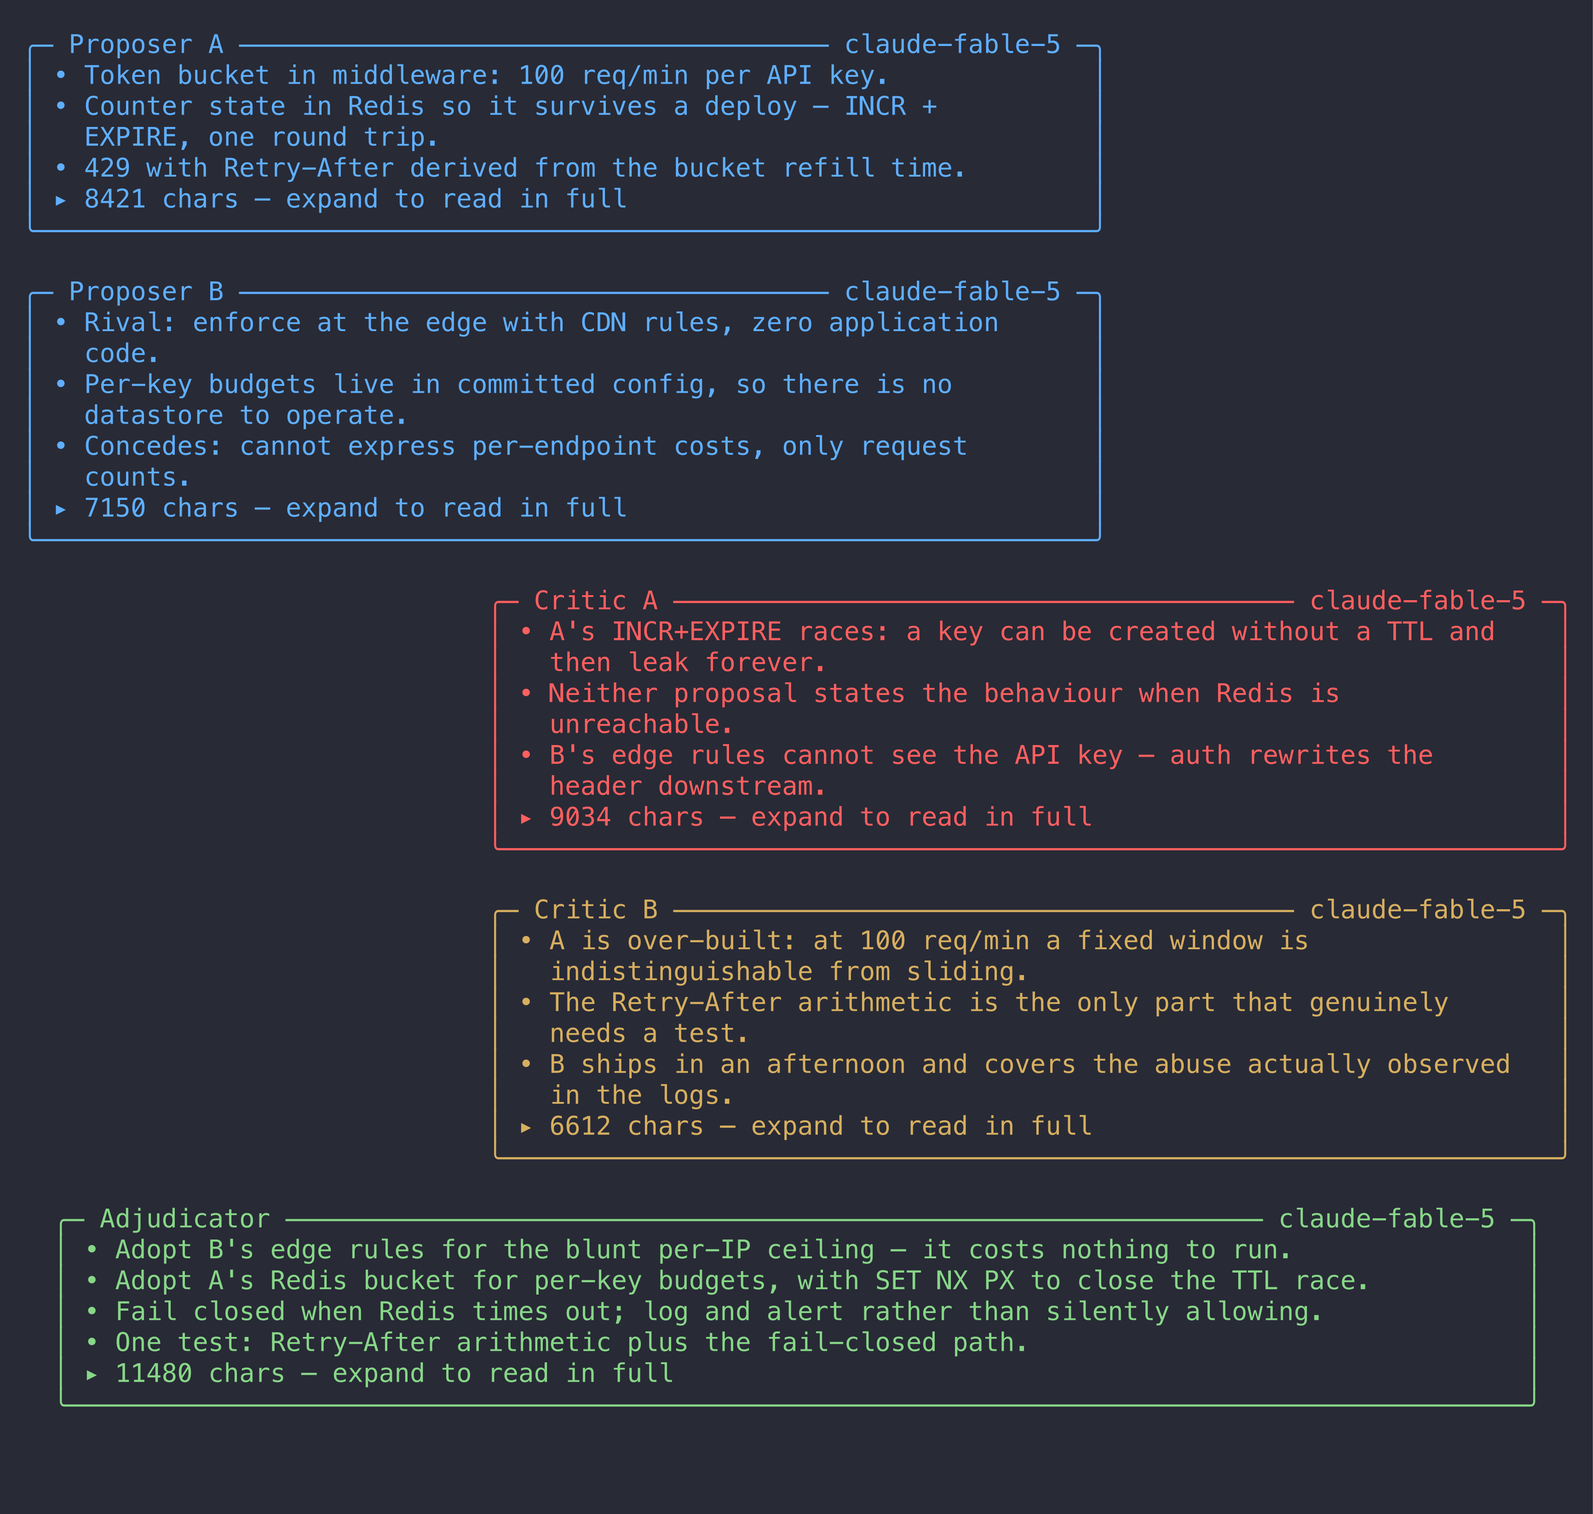
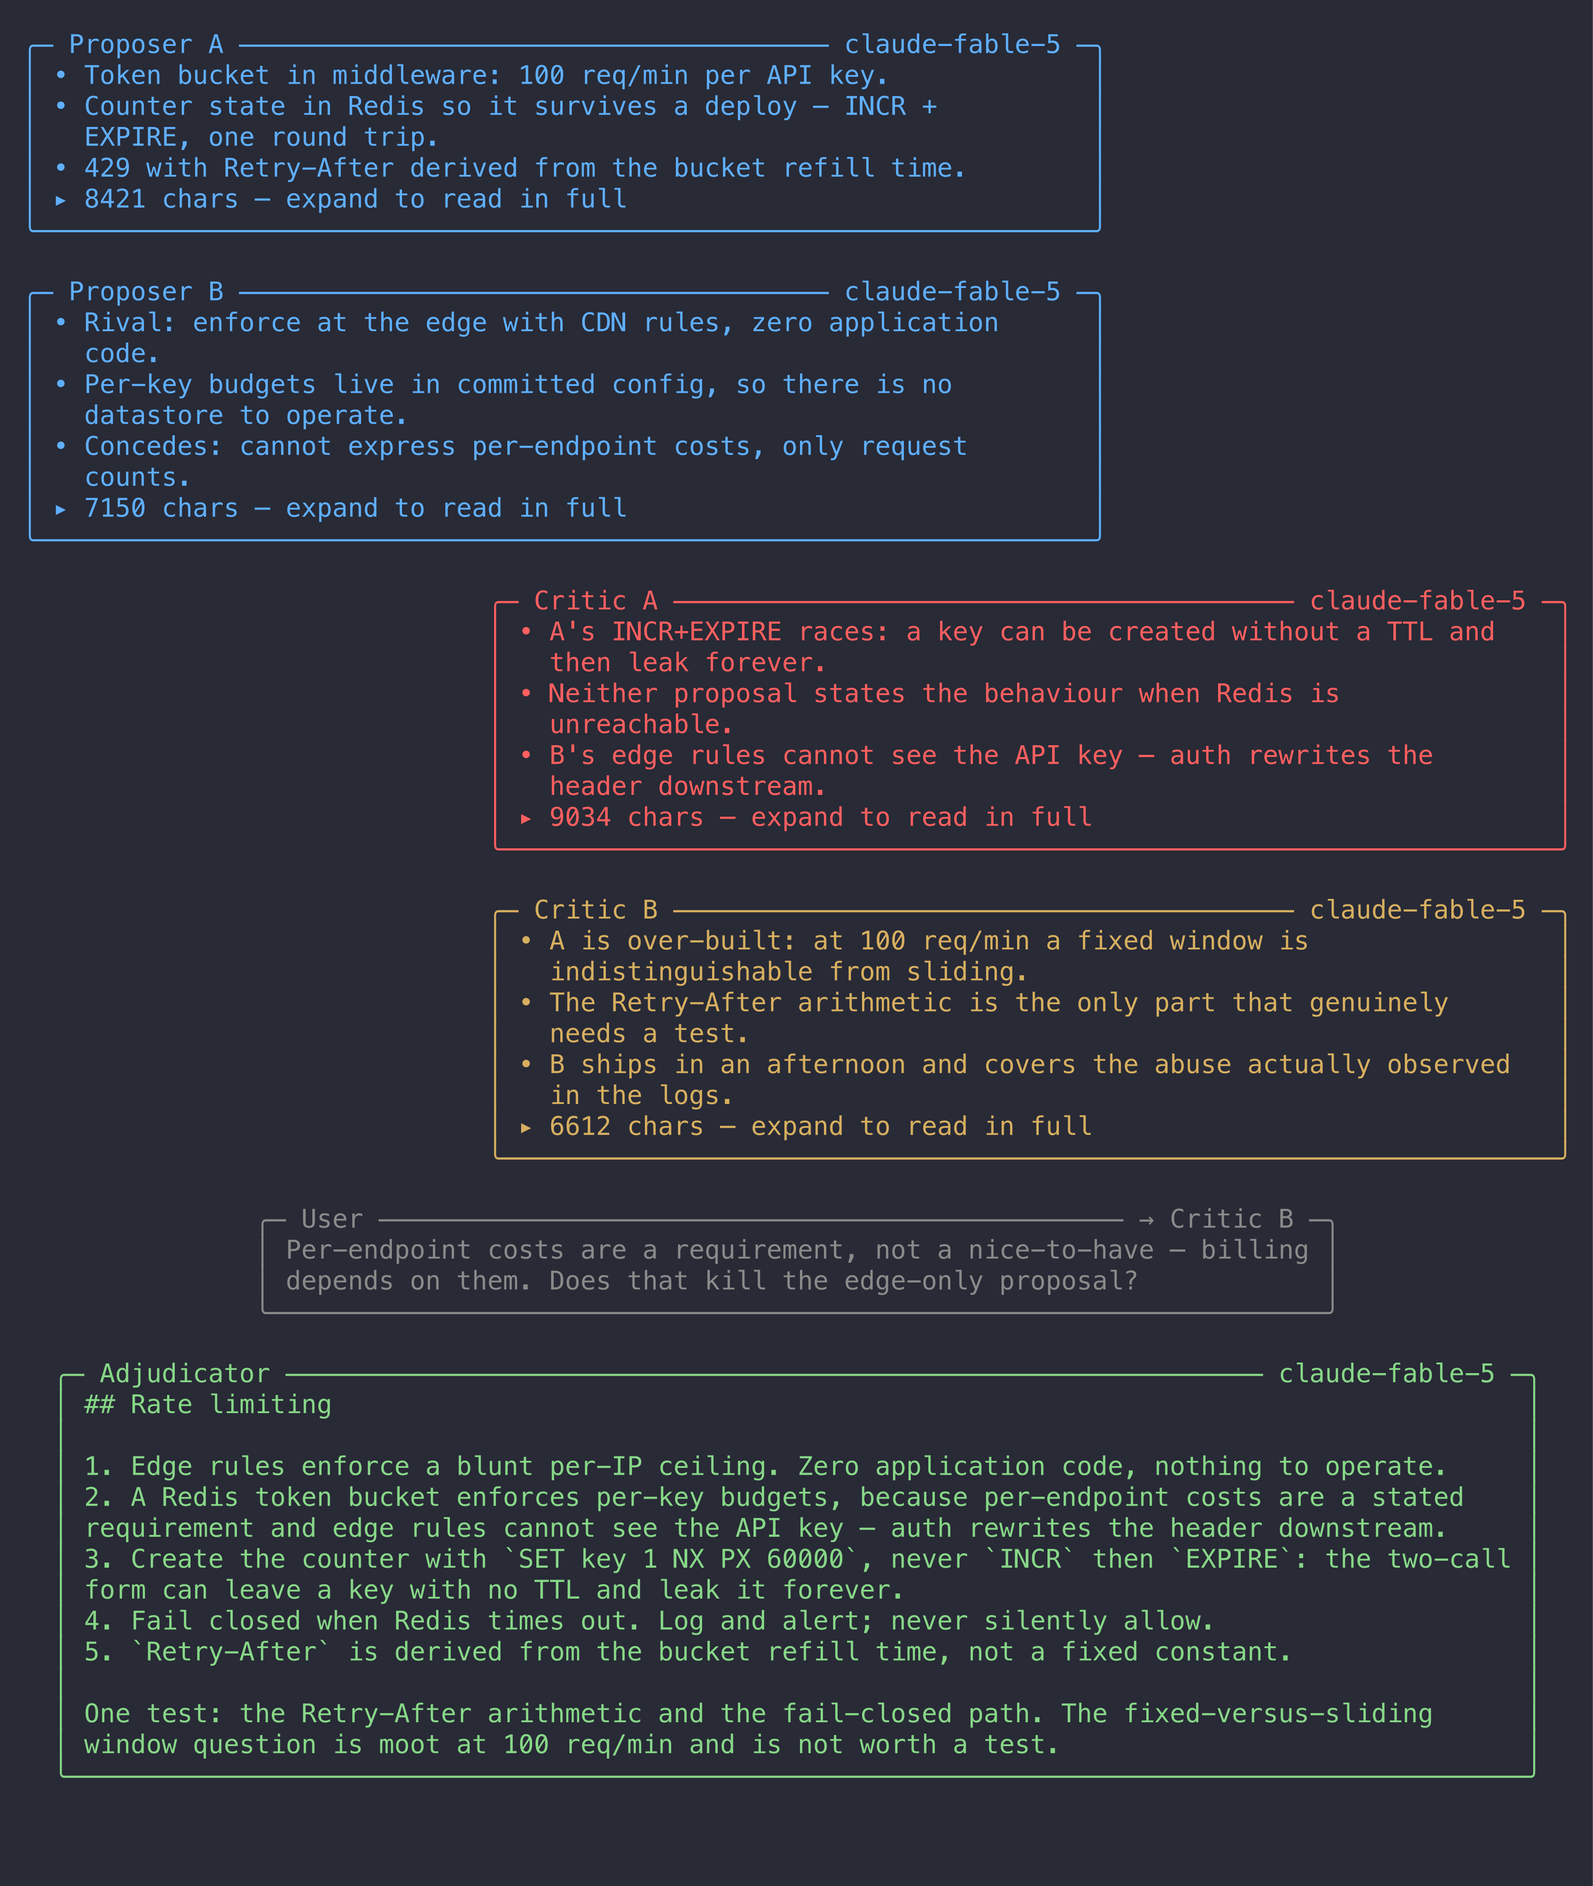
docs: trim the README, document omp and Pi installs, refresh the screenshots
Drop the tool-parameter table, the rendering walkthrough and the development
section: the zod descriptions, render.ts's comments and each module's own
"Self-check:" header already carry that, and the README was repeating them.

Install now lists the four ways omp actually discovers an extension (config.yml,
either scanned directory, -e, and the package manifest it already declares),
plus Pi's own paths and the pi.extensions key. It also states plainly that the
extension will not run under upstream Pi yet, and why: index.ts imports values
from @oh-my-pi/* and builds parameters with pi.zod, where Pi has
@earendil-works/* and typebox. core.ts and render.ts are already host-free.

Screenshots regenerated, and the fixtures had to change with them: the verdict
now renders in full, so debate.png would otherwise have shown 11 480 characters
of filler. The adjudicator fixture carries real prose, a user turn shows the
centred dimmed bubble, and a third shot captures a round gate waiting.

Changed region(s): [[0.0312, 0.0, 0.9668, 0.9295], [0.842, 0.4648, 0.9356, 0.4957], [0.0624, 0.7126, 0.1559, 0.7436]]

diff --git a/shots.ts b/shots.ts
@@ -1,12 +1,18 @@
 #!/usr/bin/env bun
 // Screenshot source for the README.
 //
-//   bun shots.ts done        a finished 4-debater debate
+//   bun shots.ts done        a finished 4-debater debate, including a user interjection
 //   bun shots.ts streaming   a turn in flight, showing the thinking animation
+//   bun shots.ts gate        a round gate open, waiting for the user
 //
 // Plain-bun safe: imports only ./core.js and ./render.js (pure), and paints with
 // raw ANSI rather than the host theme so it runs outside omp. Piped through
-// `freeze` to produce docs/*.png — see the README's Development section.
+// `freeze` to produce docs/*.png.
+//
+// Always regenerate with `bun run shots` after a layout change, never by invoking
+// `freeze` directly: the scripts pass an explicit monospace `--font.family`
+// because freeze's fallback font renders box-drawing characters at a different
+// advance width and the bubbles visibly break.
 
 import type { Theme } from "@oh-my-pi/pi-coding-agent";
 
@@ -41,7 +47,13 @@ interface SeatFixture {
 	seat: number;
 	label: string;
 	chars: number;
-	summary: string[];
+	summary?: string[];
+	/** Real body, for seats whose text is actually rendered (the verdict, and any
+	 *  user turn). Everything else stays filler, since a collapsed bubble shows
+	 *  only its summary. */
+	text?: string;
+	/** Seats a user turn was addressed to. */
+	to?: string[];
 }
 
 const SEATS: SeatFixture[] = [
@@ -90,33 +102,55 @@ const SEATS: SeatFixture[] = [
 		],
 	},
 	{
+		role: "user",
+		seat: 1,
+		label: "User",
+		chars: 0,
+		to: ["Critic B"],
+		text: "Per-endpoint costs are a requirement, not a nice-to-have — billing depends on them. Does that kill the edge-only proposal?",
+	},
+	{
 		role: "adjudicator",
 		seat: 1,
 		label: "Adjudicator",
-		chars: 11480,
-		summary: [
-			"• Adopt B's edge rules for the blunt per-IP ceiling — it costs nothing to run.",
-			"• Adopt A's Redis bucket for per-key budgets, with SET NX PX to close the TTL race.",
-			"• Fail closed when Redis times out; log and alert rather than silently allowing.",
-			"• One test: Retry-After arithmetic plus the fail-closed path.",
-		],
+		chars: 0,
+		text: [
+			"## Rate limiting",
+			"",
+			"1. Edge rules enforce a blunt per-IP ceiling. Zero application code, nothing to operate.",
+			"2. A Redis token bucket enforces per-key budgets, because per-endpoint costs are a stated",
+			"   requirement and edge rules cannot see the API key — auth rewrites the header downstream.",
+			"3. Create the counter with `SET key 1 NX PX 60000`, never `INCR` then `EXPIRE`: the two-call",
+			"   form can leave a key with no TTL and leak it forever.",
+			"4. Fail closed when Redis times out. Log and alert; never silently allow.",
+			"5. `Retry-After` is derived from the bucket refill time, not a fixed constant.",
+			"",
+			"One test: the Retry-After arithmetic and the fail-closed path. The fixed-versus-sliding",
+			"window question is moot at 100 req/min and is not worth a test.",
+		].join("\n"),
 	},
 ];
+
+const seatTurn = (s: SeatFixture) => {
+	// Collapsed bubbles render the summary and the char count, never the body, so
+	// filler only needs the right length; a rendered body must be real.
+	const text = s.text ?? "body ".repeat(Math.ceil(s.chars / 5)).slice(0, s.chars);
+	return {
+		role: s.role,
+		seat: s.seat,
+		label: s.label,
+		modelId: s.role === "user" ? "" : "claude-fable-5",
+		chars: text.length,
+		text,
+		...(s.summary ? { summary: s.summary.join("\n") } : {}),
+		...(s.to ? { to: s.to } : {}),
+	};
+};
 
 const DONE: DebateView = {
 	model: "claude-fable-5",
 	aborted: false,
-	turns: SEATS.map((s) => ({
-		role: s.role,
-		seat: s.seat,
-		label: s.label,
-		modelId: "claude-fable-5",
-		chars: s.chars,
-		// Collapsed bubbles render the summary and the char count, never the body,
-		// so the filler only needs the right length.
-		text: "body ".repeat(Math.ceil(s.chars / 5)).slice(0, s.chars),
-		summary: s.summary.join("\n"),
-	})),
+	turns: SEATS.map(seatTurn),
 };
 
 const STREAMING: DebateView = {
@@ -125,8 +159,17 @@ const STREAMING: DebateView = {
 	current: { role: "critic", seat: 1, label: "Critic A" },
 };
 
-const streaming = process.argv[2] === "streaming";
-const opts: RenderOpts = { expanded: false, isPartial: streaming, spinnerFrame: FRAME };
-const rows = renderRows(streaming ? STREAMING : DONE, WIDTH, opts, ansiTheme, fakeHelpers());
+/** A round gate holding the debate open. No `current`: nothing is thinking, which
+ *  is exactly why the renderer paints a paused row instead of an animation. */
+const GATE: DebateView = {
+	...DONE,
+	turns: DONE.turns.slice(0, 4),
+	gate: { kind: "round", round: 1 },
+};
+
+const mode = process.argv[2] ?? "done";
+const view = mode === "streaming" ? STREAMING : mode === "gate" ? GATE : DONE;
+const opts: RenderOpts = { expanded: false, isPartial: mode !== "done", spinnerFrame: FRAME };
+const rows = renderRows(view, WIDTH, opts, ansiTheme, fakeHelpers());
 // Trailing padding is load-bearing inside the TUI but only inflates the PNG.
 console.log(rows.map((r) => r.replace(/\s+$/, "")).join("\n"));

diff --git a/README.md b/README.md
@@ -8,6 +8,10 @@ While a model is thinking, its bubble shows a typing animation; the summary repl
 
 ![A turn in flight](docs/debate-streaming.png)
 
+With `interactive` on, the debate stops at every round boundary and waits for you — the bubbles behind the dialog are the digest, and each option carries that agent's headline for the round.
+
+![A round gate waiting for the user](docs/debate-gate.png)
+
 ## What it does
 
 One tool, `debate`, runs a structured adversarial debate and returns the adjudicated result:
@@ -16,20 +20,37 @@ One tool, `debate`, runs a structured adversarial debate and returns the adjudic
 2. **Critics** attack every proposal on the table. With two seats they get different assigned lenses, so they do not both report the same finding.
 3. **The adjudicator** speaks once, last, reads the whole debate, and emits the final plan — adopting what survived, discarding what did not, and resolving each disagreement explicitly.
 
-Only the adjudicator's output is returned as the result. The debate itself is visible in the transcript and in the bubbles.
+Only the adjudicator's output is returned as the result. The debate itself is visible in the transcript and in the bubbles, and once the debate finishes the verdict is rendered **in full** rather than as a summary behind the expand toggle — it is the artefact you came for.
 
 ## Install
 
-Clone it anywhere and add the path to `extensions:` in `~/.omp/agent/config.yml`:
+Nothing to build: the host supplies every import at runtime.
+
+> **Never run `bun install` in this repo.** It has no dependencies on purpose. A local `node_modules` carrying its own copy of `@oh-my-pi/*` shadows the host's module graph and breaks extension loading.
+
+### omp
+
+Clone it anywhere, then pick one:
 
 ```yaml
+# ~/.omp/agent/config.yml
 extensions:
   - ~/dev/omp-debate
 ```
 
-Restart omp. Confirm it loaded with `bun smoke.ts` (about 2 seconds, no tokens).
+```bash
+ln -s ~/dev/omp-debate ~/.omp/agent/extensions/omp-debate   # every project
+ln -s ~/dev/omp-debate .omp/extensions/omp-debate           # this project only
+omp -e ~/dev/omp-debate                                     # one session
+```
 
-> **Never run `bun install` in this repo.** It has no dependencies on purpose. A local `node_modules` containing its own copy of `@oh-my-pi/*` shadows the host's module graph and breaks extension loading. The host supplies every import at runtime.
+A directory path is enough because `package.json` declares `omp.extensions`, so the host reads the entry point instead of guessing it. Restart omp, then confirm with `bun smoke.ts` (~2 s, no tokens).
+
+### Pi
+
+The same entry point is declared under `pi.extensions`, and upstream [Pi](https://github.com/earendil-works/pi-mono) auto-discovers `~/.pi/agent/extensions/` and `.pi/extensions/`, or takes explicit paths via `settings.json#extensions` and `pi -e`.
+
+**It will not run there yet**, and the manifest is not the reason: `index.ts` imports values from `@oh-my-pi/pi-ai` and `@oh-my-pi/pi-tui`, which upstream are `@earendil-works/*`, and it builds tool parameters with `pi.zod` where Pi's documented builder is typebox. `core.ts` and `render.ts` are already host-free, so a port means a second `index.ts` written against Pi's API — not done, and not pretended.
 
 ## Usage
 
@@ -44,24 +65,36 @@ The commands are named `-debate` because the interactive TUI already owns `/plan
 
 ### Pre-flight questions
 
-Unless the caller already specified them, the tool asks two questions before spending anything:
+Unless the caller already specified them, the tool asks three questions before spending anything:
 
 - **How many agents should debate?** 2 (default), 3, 4, or a custom count from 2 to 6. The adjudicator is always added on top.
 - **Force maximum reasoning effort?** Adjudicator only (default), all agents, or none.
+- **Join the debate?** No (default), or yes — see [Joining the debate](#joining-the-debate) below.
 
-Cancelling or letting the dialog time out runs the cheap defaults (2 debaters, no ultrathink) rather than failing. Headless runs (print, RPC, ACP) never see a dialog and use the same defaults, so unattended automation cannot stall — pass `debaters` and `ultrathink` explicitly there.
+Cancelling *or* timing out runs the cheap defaults (2 debaters, no ultrathink, no gates) rather than failing. That needs saying because the host does not do it for you: a timed-out dialog submits its **recommended** option with `timedOut: true` rather than resolving as a cancel, so a timeout would otherwise silently start a max-effort debate ([harness note 7](docs/harness-notes.md)).
 
-### Tool parameters
+Headless runs (print, RPC, ACP) never see a dialog and use the same defaults, so unattended automation cannot stall — pass `debaters`, `ultrathink` and `interactive` explicitly there.
 
-| Parameter | Type | Default | Meaning |
-|---|---|---|---|
-| `mode` | `"plan"` \| `"review"` | required | Design a plan, or critique an implementation |
-| `goal` | string | required | The original request, verbatim and unsummarised |
-| `briefing` | string | required | Curated context: constraints, settled decisions, code shape |
-| `files` | string[] | none | Paths included verbatim (64 KB per file, 256 KB total, then truncated with a marker) |
-| `rounds` | 1–4 | 1 | Proposer/critic exchanges before adjudication |
-| `debaters` | 2–6 | asked | Debating agents, excluding the adjudicator |
-| `ultrathink` | `"none"` \| `"adjudicator"` \| `"all"` | asked | Which seats run at maximum reasoning effort |
+## Joining the debate
+
+With `interactive` on, the debate stops at every round boundary — after all proposers and critics have spoken — and after the verdict. Each stop offers:
+
+| At a round boundary | After the verdict |
+|---|---|
+| Continue to the next round | Accept the verdict and finish |
+| Ask or challenge one or more debaters | Ask a debater whether the plan answered their objections |
+| Continue without further gates | Send the adjudicator back to revise the plan |
+| End the debate now and adjudicate | |
+
+Picking agents shows each one's headline for the round, taken from the summary the bubble already paid for, so the digest costs nothing extra. Your message is written in a multi-line editor — **Enter sends, Shift+Enter adds a line** — and enters the transcript as a `## User (to Critic A)` turn, which every later turn reads verbatim. The loop repeats until you continue, stop the gates, or accept — nothing but you ends it.
+
+**Each addressed agent costs one model call**, and every reply re-reads the whole transcript, so the dialog states the running transcript size and warns before the context window becomes a coin flip.
+
+**Your authority is split, deliberately.** Every seat is told that your statements about intent, requirements and acceptance criteria are binding, and that your technical claims carry no special weight — they are evaluated like any debater's, and a seat that changes position after your turn must cite the evidence that justifies it. The adjudicator additionally audits post-user reversals and resolves them on the pre-existing arguments when no evidence was given. This is the opposite of the "master nick" pattern in IRC agent skills, where a privileged human must not be argued with: that is right for dispatching work and wrong for a debate, where a seat that folds because you frowned at it has told you nothing.
+
+When several agents are addressed at once, none of them sees the others' answers — they all answer the same snapshot ending at your message. Agreement between independently prompted seats means something; agreement after reading each other does not.
+
+Interactive gates need a TUI. A headless run that passes `interactive: true` skips them and says so in the notes rather than stalling.
 
 ## How it works
 
@@ -79,41 +112,11 @@ Cancelling or letting the dialog time out runs the cheap defaults (2 debaters, n
 
 Two proposers are used whenever the count allows; only the floor of 2 drops to a single proposer, since otherwise there would be no critic. Critic seats 1 and 2 get named lenses (correctness/completeness/hidden coupling, and over-engineering/simplicity/failure modes); further seats are told to cover only what the others missed.
 
-**Turn order.** Each round: every proposer, then every critic. The adjudicator speaks once, at the end. Cost is `rounds × debaters + 1` expensive calls, plus one cheap `@smol` call per turn for the bubble summaries.
+**Turn order.** Each round: every proposer, then every critic. The adjudicator speaks once, at the end. Cost is `rounds × debaters + 1` expensive calls, plus one for every agent you address at an interactive gate, plus one cheap `@smol` call per turn for the bubble summaries.
 
 **Ultrathink** does two things: it appends an `ultrathink:` directive to the chosen seats' system prompts, and it sets the provider's reasoning effort to `max` for those calls. The second half matters more than it looks — a `modelRoles` entry like `plan: anthropic/claude-fable-5:max` loses its `:max` when the extension API resolves the alias, and the effort is not recoverable from the resolved model, so without this the debate silently ran at default effort. Ultrathink turns also get a 64 000-token output cap instead of 32 000, because thinking tokens draw from the same budget.
 
 **Summaries.** Each turn is compressed to at most 10 bullet lines by the `@smol` model, describing only what that turn *changed*. If no cheap model resolves, or a summary call fails, the bubble falls back to head lines and says so — a debate that already cost real money is never discarded over a missing reading aid.
-
-## Rendering
-
-Bubbles are laid out like a chat: proposers flush left, critics flush right, both at 70% of the width. The adjudicator's verdict is the artefact you actually read, so it spans everything but a two-column margin. Two critics get different colours so their seats are distinguishable at a glance.
-
-A turn in flight shows only a header and a thinking animation — dots appearing and disappearing one at a time. Streaming the raw text was unreadable at generation speed, and the animation keeps moving during long silent thinking pauses because the tool re-emits on a 300 ms heartbeat. Press the expand toggle on a finished result to replace every summary with the full turn text.
-
-Below 72 columns the side layout collapses to full-width gutter blocks; below 24 columns it degrades to plain unstyled lines.
-
-## Development
-
-No build step and no dependencies. The two pure modules carry their own assertion suites and run under plain `bun`:
-
-```bash
-bun core.ts       # orchestration: seating, turn order, prompts, transcript integrity
-bun render.ts     # layout: bubble geometry, dot phases, width invariants
-bun smoke.ts      # + host tool/command registration (~2 s, no tokens)
-bun smoke.ts --live   # + one real debate driven through /plan-debate (2-5 min, real tokens)
-```
-
-`core.ts` and `render.ts` deliberately contain no *value* imports from the host packages — only type-only ones — which is what keeps them runnable outside omp. Host wiring lives entirely in `index.ts`.
-
-Regenerate the screenshots after a layout change:
-
-```bash
-brew install charmbracelet/tap/freeze
-bun run shots
-```
-
-Always regenerate via `bun run shots`; never invoke `freeze` directly. The scripts in `package.json` pass an explicit monospace `--font.family` because freeze's fallback font renders box-drawing characters at a different advance width and the bubbles visibly break. Do not run `bun install` in this repo — a local `node_modules` shadows the host's module graph and breaks extension loading.
 
 [`docs/harness-notes.md`](docs/harness-notes.md) records the extension-API gaps this extension ran into, with evidence and proposed fixes.
 
